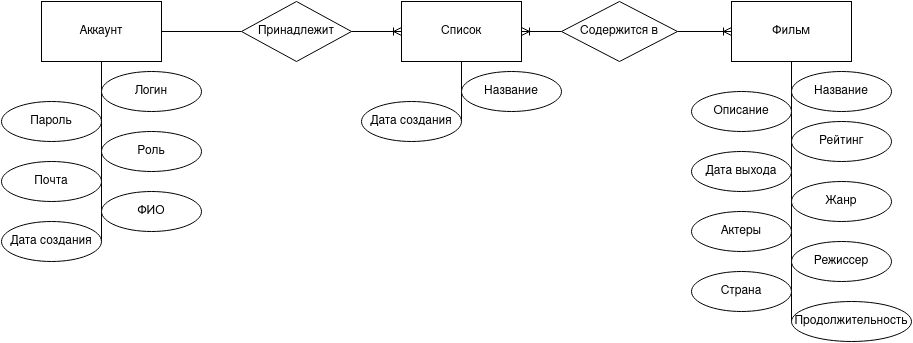
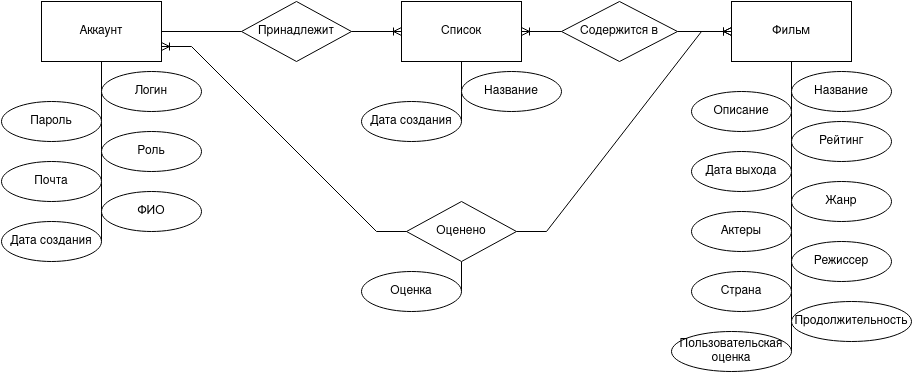
Initial commit

diff --git a/README.md b/README.md
@@ -23,14 +23,14 @@
 ![er](docs/img/er.png)
 
 ### Пользовательские сценарии (в текстовом виде);
-1. Авторизоваться, зайти на страницу своего профиля, создать / удалить собственный список.
-2. Авторизоваться, зайти на страницу конкретного фильма, добавить / исключить в собственную подборку.
-3. Посмотреть фильмы, добавить фильтр по жанру.
-4. Посмотреть фильмы, добавить фильтр по режиссеру.
-5. Посмотреть фильмы, добавить фильтр по актеру.
-6. Посмотреть фильмы, добавить фильтр по стране.
-7. Авторизоваться, зайти на страницу конкретного фильма, оценить фильм.
-8. Авторизоваться, сделать что-то из предыдущих действий или ни одно из них, выйти из аккаунта.
+1. Авторизоваться, перейти на страницу создания нового списка, создать список (указав его название).
+2. Авторизоваться, перейти на страницу поиска фильмов, ввести название фильма, перейти на страницу фильма, добавить фильм в свой список, указав его название.
+3. Авторизоваться, перейти на страницу поиска фильмов, добавить фильтр по жанру (выбрав из списка), перейти на страницу фильма, добавить фильм в свой список, указав его название.
+4. Авторизоваться, перейти на страницу поиска фильмов, добавить фильтр по режиссеру (указав его имя), перейти на страницу фильма, добавить фильм в свой список, указав его название.
+5. Авторизоваться, перейти на страницу поиска фильмов, добавить фильтр по актеру (указав его имя), перейти на страницу фильма, добавить фильм в свой список, указав его название.
+6. Авторизоваться, перейти на страницу поиска фильмов, добавить фильтр по стране (указав ее название), перейти на страницу фильма, добавить фильм в свой список, указав его название.
+7. Авторизоваться, перейти на страницу поиска фильмов, ввести название фильма, перейти на страницу фильма, оценить фильм.
+8. Авторизоваться, перейти на страницу своих списков, перейти на страницу, перейти на страницу конкретного списка, перейти на страницу фильма, оценить фильм.
 9.  Зайти на страницу авторизации, авторизироваться или перейти на страницу регистрации.
 
 ### Формализация бизнес-правил (в виде BPMN).
